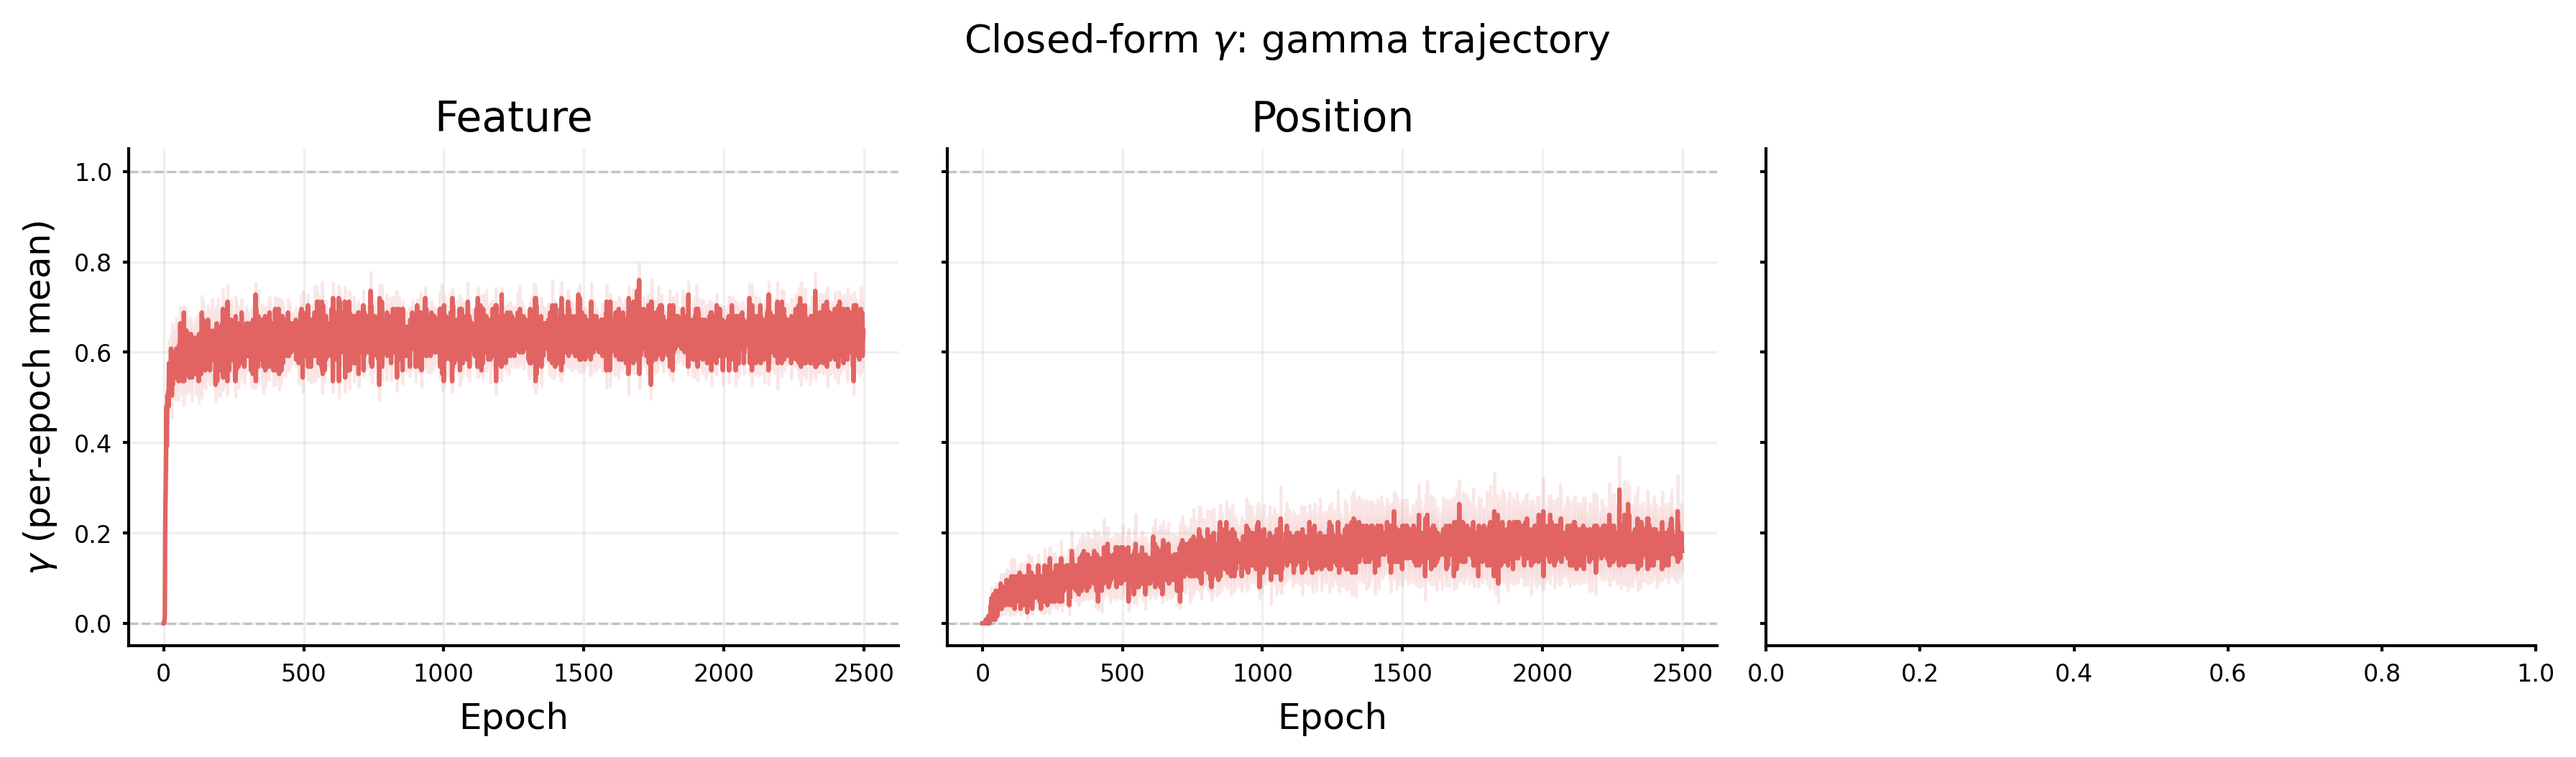
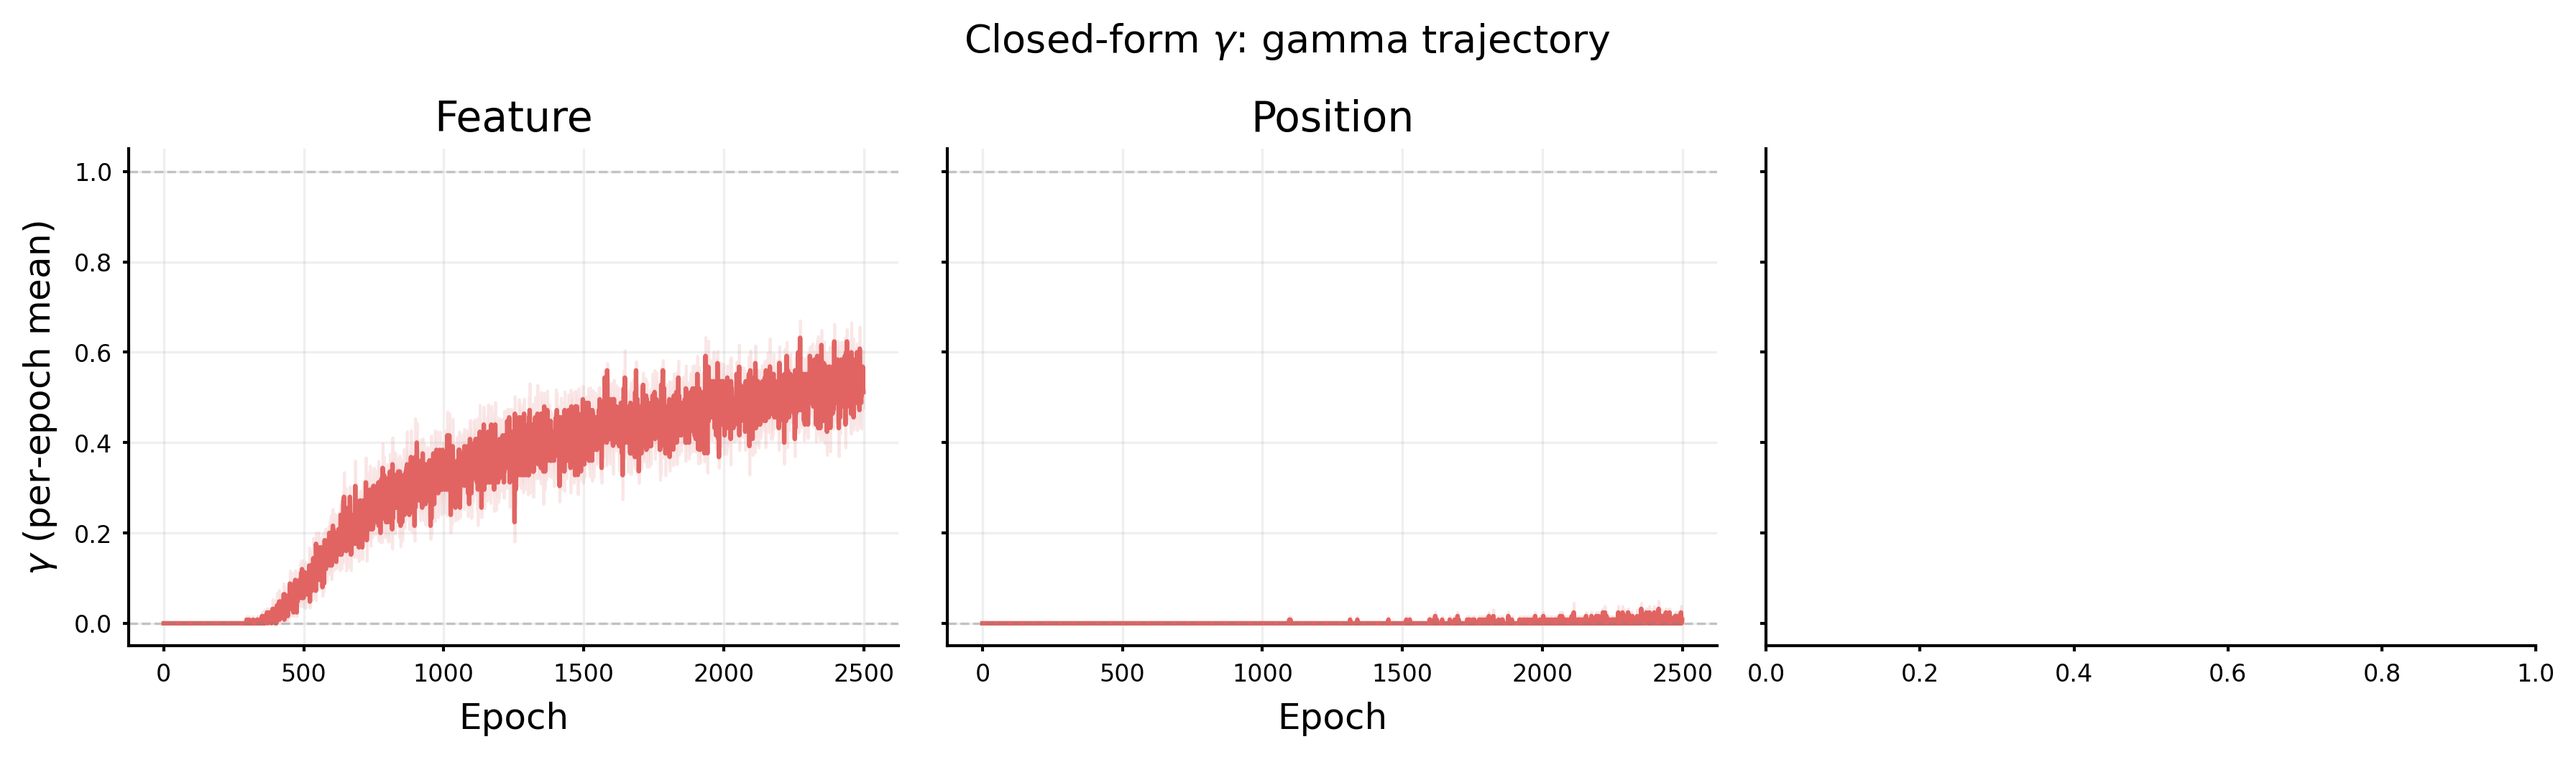
[update,script] used smaller parameters on optimizer for method

Changed region(s): [[0.0625, 0.3643, 0.3438, 0.8501], [0.375, 0.6376, 0.6562, 0.8501]]

diff --git a/scripts/context_identification/plot_lagrange_gamma_results.py b/scripts/context_identification/plot_lagrange_gamma_results.py
@@ -120,6 +120,46 @@ def plot_gamma_trajectory(
     print(f"Saved {save_path}")
     plt.show()
 
+# ============================================================
+# Figure 3: test accuracy curves
+# ============================================================
+
+def plot_mse(
+    results_path="./data/closed_form_gamma_sweep.json",
+    save_path="./results/closed_form_gamma_accuracy.png",
+):
+    results = load_json(results_path)
+    color = plt.cm.plasma(0.6)
+
+    fig, axes = plt.subplots(1, 3, figsize=(12, 3.5), sharey=True)
+
+    for ax, mode in zip(axes, LABEL_MODES):
+        seed_dict = results[mode]
+
+        if mode == "both":
+            curves_f = collect_curves(seed_dict, "test_loss_f")
+            curves_p = collect_curves(seed_dict, "test_loss_p")
+            epochs = np.arange(curves_f.shape[1])
+            plot_mean_sem(ax, epochs, curves_f, color=plt.cm.plasma(0.3), label="feature")
+            plot_mean_sem(ax, epochs, curves_p, color=plt.cm.plasma(0.75), label="position")
+            ax.legend(fontsize=8, loc="lower right")
+        else:
+            curves = collect_curves(seed_dict, "test_loss")
+            epochs = np.arange(curves.shape[1])
+            plot_mean_sem(ax, epochs, curves, color=color)
+
+        ax.set_title(MODE_TITLES[mode])
+        ax.set_xlabel("Epoch")
+        ax.grid(alpha=0.2)
+
+    axes[0].set_ylabel("Test Loss")
+    fig.suptitle("Closed-form $\\gamma$: test-accuracy dynamics", fontsize=13)
+    plt.tight_layout()
+
+    Path(save_path).parent.mkdir(parents=True, exist_ok=True)
+    plt.savefig(save_path, dpi=300, bbox_inches="tight")
+    print(f"Saved {save_path}")
+    plt.show()
 
 # ============================================================
 # Main
@@ -137,3 +177,8 @@ if __name__ == "__main__":
         results_path="./data/lagrange_gamma_sweep.json",
         save_path="./results/lagrange_gamma_trajectory.png",
     )
+    
+    # plot_mse(
+    #     results_path="./data/regress_lagrange_gamma_sweep.json",
+    #     save_path="./results/regress_lagrange_gamma_loss.png",
+    # )

diff --git a/scripts/context_identification/lagrange_gamma_sweep.py b/scripts/context_identification/lagrange_gamma_sweep.py
@@ -481,8 +481,8 @@ if __name__ == "__main__":
         allow_ref_in_context=False,
         batch_size=20,
         epochs=2500,
-        lr=1e-2,
-        weight_decay=1e-3,
+        lr=1e-4,
+        weight_decay=0,
         show_progress=False,
         show_combo_progress=True,
         models_dir="./data/lagrange_gamma_models/",
